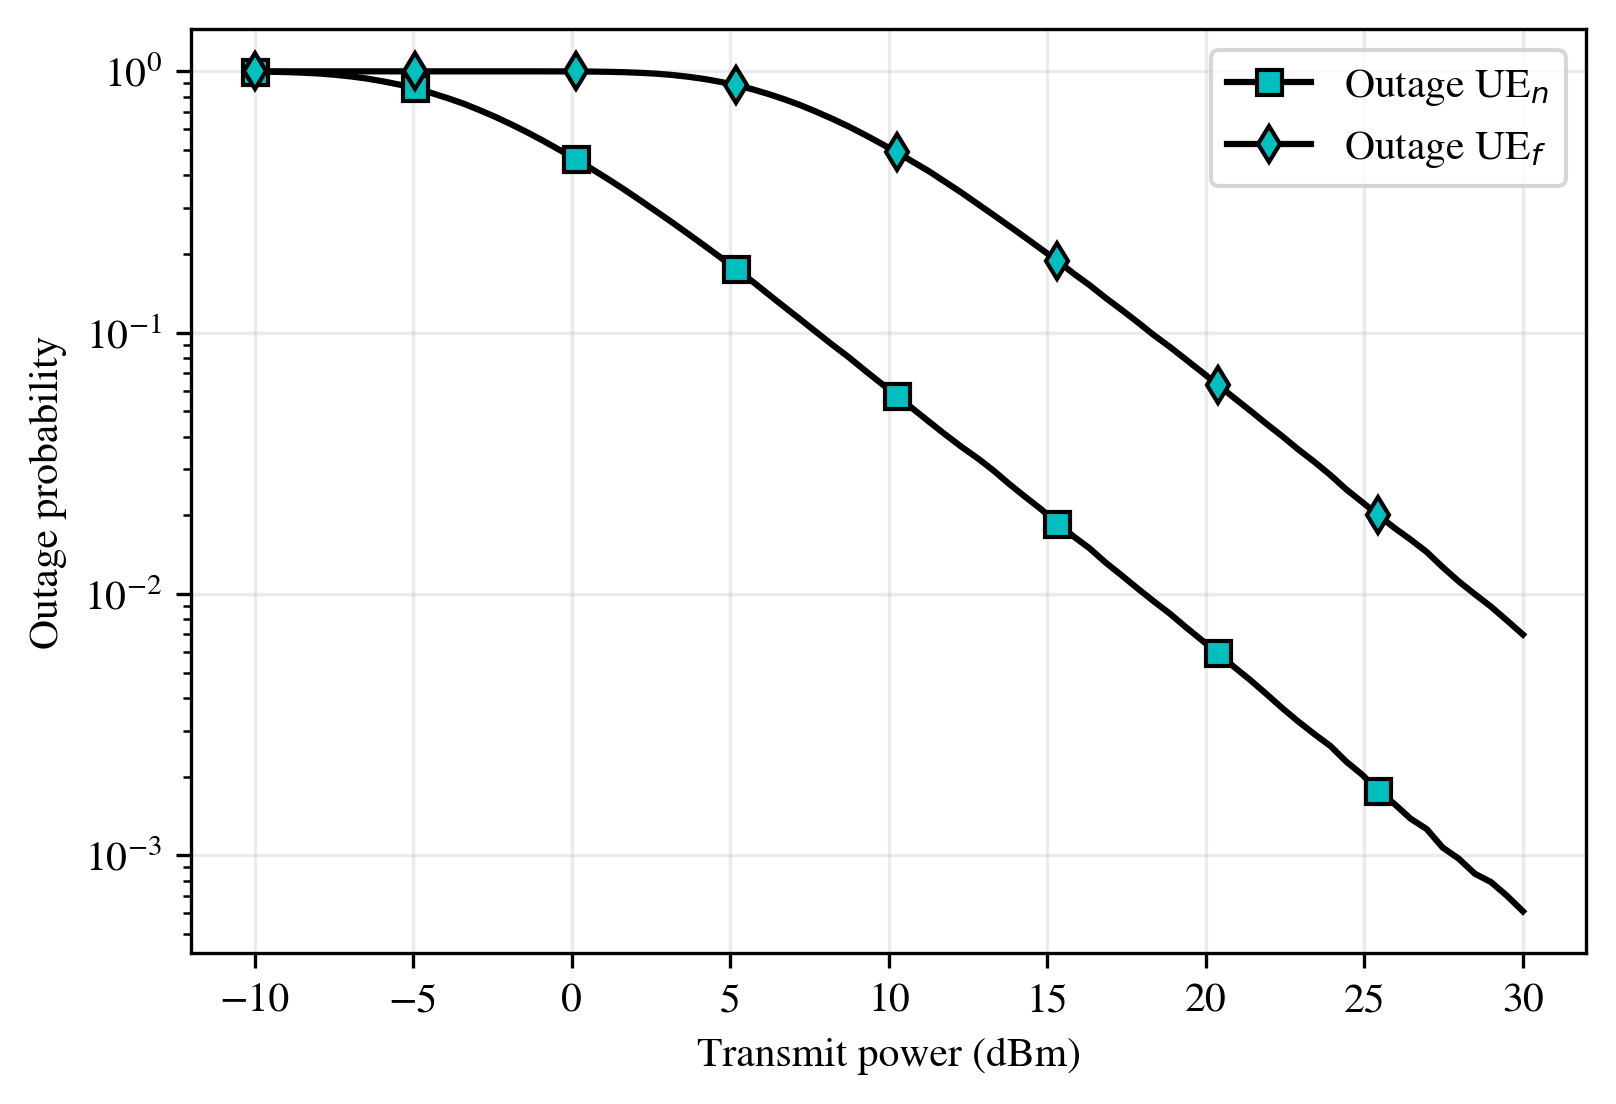
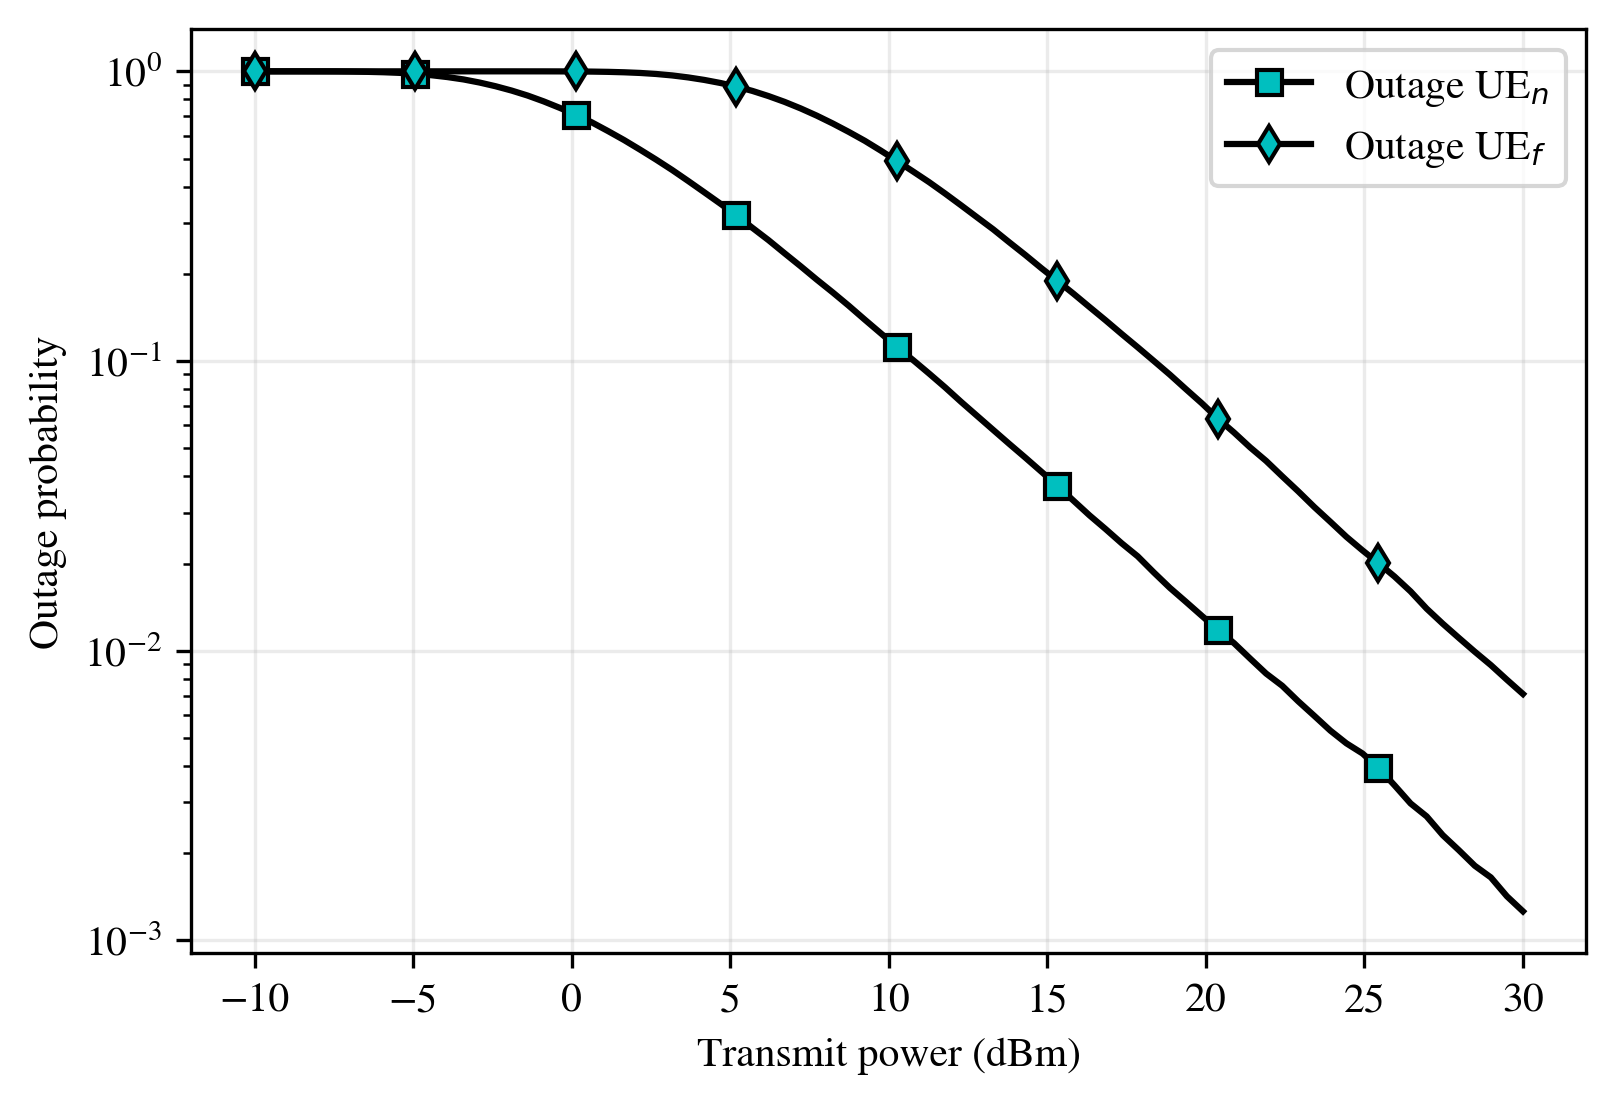
Fix outage condition

diff --git a/docs/source/quickstart.md b/docs/source/quickstart.md
@@ -178,13 +178,13 @@ for i, p in enumerate(Pt_lin):
     )
     UEn.sinr[i, :] = (BS.allocations["UEn"] * p * gain_n) / N0_lin
 
-# Shannon capacity
+
 rate_fn = np.log2(1 + UEn.sinr_pre)
 rate_n = np.log2(1 + UEn.sinr)
 rate_f = np.log2(1 + UEf.sinr)
 
 # Rate thresholds
-thresh_n = 3
+thresh_n = 1
 thresh_f = 1
 
 # JIT compiled as mc can be very large (>> 10000)
@@ -195,7 +195,7 @@ def get_outage(rate_fn, rate_n, rate_f, thresh_n, thresh_f):
 
     for i in range(len(Pt)):
         for k in range(mc):
-            if rate_fn[i, k] < thresh_f and rate_n[i, k] < thresh_n:
+            if rate_fn[i, k] < thresh_f or rate_n[i, k] < thresh_n:
                 outage_n[i] += 1
             if rate_f[i, k] < thresh_f:
                 outage_f[i] += 1
